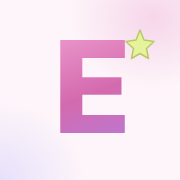
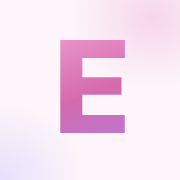
Remove decorative stars and wavy lines; unify fonts
Claude-Session: https://claude.ai/code/session_01LgjJBb7BJznBuJqFrQWUaM

Changed region(s): [[0.6944, 0.1667, 0.8611, 0.3333]]

diff --git a/english/app.js b/english/app.js
@@ -113,10 +113,8 @@
 
   /* ═════════════ quiz UI ═════════════ */
   const DOODLES = [
-    '<svg class="doodle" viewBox="0 0 60 60"><path d="M30 8 L35 24 L52 24 L38 34 L43 51 L30 41 L17 51 L22 34 L8 24 L25 24 Z"/></svg>',
     '<svg class="doodle" viewBox="0 0 60 60"><path d="M30 50 C 10 38, 6 22, 18 14 C 25 10, 30 16, 30 20 C 30 16, 35 10, 42 14 C 54 22, 50 38, 30 50 Z"/></svg>',
     '<svg class="doodle" viewBox="0 0 60 60"><circle cx="30" cy="30" r="10"/><path d="M30 6v8M30 46v8M6 30h8M46 30h8M13 13l6 6M41 41l6 6M47 13l-6 6M19 41l-6 6"/></svg>',
-    '<svg class="doodle" viewBox="0 0 60 60"><path d="M10 44 C 14 30, 22 20, 30 30 S 44 36, 50 16"/><path d="M44 14 L50 16 L50 23"/></svg>',
     '<svg class="doodle" viewBox="0 0 60 60"><path d="M12 36 C 12 26, 22 22, 28 26 C 30 16, 46 16, 46 28 C 54 28, 54 40, 46 40 L16 40 C 12 40, 10 38, 12 36 Z"/></svg>',
   ];
 
@@ -238,7 +236,7 @@
     $("#quiz").innerHTML = `
       <div class="summary">
         <div class="stamp">${r0 ? "BONUS" : "DONE"}<small>${okN} / ${round.length}</small></div>
-        ${extra > 0 ? `<p class="hand-note" style="margin:-4px 0 10px">今天已经多学了 ${extra} 个词，厉害！✎</p>` : ""}
+        ${extra > 0 ? `<p class="hand-note" style="margin:-4px 0 10px">今天已经多学了 ${extra} 个词，厉害！</p>` : ""}
         <ul class="sum-list">
           ${round.map((it, k) => {
             const i = r0 + k;
@@ -286,7 +284,7 @@
       $("#quiz").innerHTML = `
         <div class="flip" id="flip"><div class="flip-inner">
           <div class="face front"><span class="counter">${i + 1} / ${cards.length}</span><div class="word-big">${esc(it.w)}</div>
-            <div class="word-meta"><span>${esc(it.ph)}</span><button class="speak" data-say="${esc(it.w)}">🔊</button></div>${DOODLES[i % 5]}</div>
+            <div class="word-meta"><span>${esc(it.ph)}</span><button class="speak" data-say="${esc(it.w)}">🔊</button></div>${DOODLES[i % DOODLES.length]}</div>
           <div class="face back"><div class="ans">${esc(it.zh)}</div>${it.ex ? `<p class="ex">${highlight(it.ex, it.w)}</p>` : ""}${it.tip ? `<p class="tipline">${esc(it.tip)}</p>` : ""}</div>
         </div></div>
         <div class="quiz-foot"><span class="hand-note">点卡片翻面</span>
@@ -589,9 +587,6 @@
       <svg viewBox="0 0 300 200" preserveAspectRatio="xMidYMid slice" style="filter:url(#wobble)">
         <circle cx="${60 + i * 70}" cy="50" r="38" fill="rgba(255,255,255,.35)"/>
         <circle cx="250" cy="${150 - i * 20}" r="60" fill="rgba(255,255,255,.25)"/>
-        <path d="M0 160 C 60 130, 110 185, 170 155 S 260 130, 300 150 L300 200 L0 200 Z" fill="rgba(255,255,255,.35)"/>
-        <path d="M20 40 q 10 -10 20 0 t 20 0" fill="none" stroke="rgba(15,74,89,.35)" stroke-width="2.4" stroke-linecap="round"/>
-        <path d="M230 40 l 6 14 l 14 2 l -10 10 l 3 14 l -13 -7 l -13 7 l 3 -14 l -10 -10 l 14 -2 z" fill="none" stroke="rgba(15,74,89,.3)" stroke-width="2"/>
       </svg>
       <span class="emo">${c.emo}</span></div>`;
   }
@@ -627,7 +622,7 @@
     $("#newsDate").textContent = newsData.date.slice(5).replace("-", "/") + (newsData.date === TODAY ? " · 今天" : "");
     const d = day();
     const late = newsDate === TODAY && newsData.date !== TODAY;
-    list.innerHTML = (late ? `<p class="hand-note" style="margin:0">今天的热点 9:00 前更新，先看看 ${newsData.date.slice(5).replace("-", "/")} 的 ✎</p>` : "") +
+    list.innerHTML = (late ? `<p class="hand-note" style="margin:0">今天的热点 9:00 前更新，先看看 ${newsData.date.slice(5).replace("-", "/")} 的</p>` : "") +
       newsData.items.map((it, i) => {
         const c = CAT[it.category] || CAT.world;
         const read = d.newsRead.includes(readKey(i));

diff --git a/english/style.css b/english/style.css
@@ -57,7 +57,7 @@ button { font: inherit; color: inherit; cursor: pointer; }
 .chip-lime { background: var(--lime); color: #4f5a12; }
 .chip-teal { background: var(--teal); color: #e0f1f4; }
 .chip-mint { background: var(--mint); color: #245c4a; }
-.hand-note { font-family: var(--hand); font-size: 19px; color: var(--pink-deep); line-height: 1.1; }
+.hand-note { font-size: 13px; color: var(--ink-2); line-height: 1.4; }
 
 
 .icon-btn {
@@ -113,7 +113,7 @@ button { font: inherit; color: inherit; cursor: pointer; }
 }
 .face.back { background: var(--teal); color: #e7f3f5; transform: rotateY(180deg); justify-content: center; gap: 8px; }
 .face .tag { position: absolute; top: 14px; left: 16px; }
-.face .counter { position: absolute; top: 14px; right: 18px; font-family: var(--hand); font-size: 20px; color: #8a5a7c; }
+.face .counter { position: absolute; top: 16px; right: 18px; font-size: 13px; font-weight: 500; color: #8a5a7c; }
 .doodle { position: absolute; bottom: 10px; right: 14px; width: 54px; opacity: .55; filter: url(#wobble); }
 .doodle path, .doodle circle { fill: none; stroke: #8a5a7c; stroke-width: 2; stroke-linecap: round; }
 .word-big { font-size: clamp(30px, 5vw, 42px); font-weight: 600; letter-spacing: -0.01em; margin: 6px 0 4px; }
@@ -128,7 +128,7 @@ button { font: inherit; color: inherit; cursor: pointer; }
 .back .ex b { color: var(--lime); font-weight: 500; }
 .back .tipline { margin: 0; font-size: 14px; color: #f7d7ec; }
 .back .tipline::before { content: "✎ "; }
-.back .verdict { font-family: var(--hand); font-size: 24px; color: var(--lime); }
+.back .verdict { font-size: 15px; font-weight: 600; color: var(--lime); }
 .back .verdict.no { color: #ffb3c4; }
 
 .options { display: grid; grid-template-columns: 1fr 1fr; gap: 10px; }
@@ -323,7 +323,7 @@ a { color: inherit; text-decoration: none; -webkit-tap-highlight-color: transpar
 .search-bar span { flex: 1; }
 .search-bar i { font-style: normal; font-size: 11px; padding: 4px 10px; border-radius: 99px; background: var(--lav); color: #4a3f99; }
 
-.section-label { font-family: var(--hand); font-size: 22px; color: var(--pink-deep); margin: 22px 4px 10px; }
+.section-label { font-size: 15px; font-weight: 600; color: var(--ink); margin: 22px 4px 10px; }
 
 /* tiles */
 .tiles { display: grid; grid-template-columns: 1fr 1fr; gap: 12px; }
@@ -383,12 +383,12 @@ a { color: inherit; text-decoration: none; -webkit-tap-highlight-color: transpar
 .topbar .steps { gap: 4px; padding: 0; }
 .topbar .steps i { width: 12px; }
 
-.dict-hint { margin: 10px 4px 0; font-size: 17px; }
+.dict-hint { margin: 10px 4px 0; }
 .dict-result { margin: 14px 0 6px; }
 .notebook { margin-top: 18px; }
 
 .news-tools { justify-content: space-between; margin-bottom: 8px; }
-.news-hint { margin: 4px 4px 12px; font-size: 17px; }
+.news-hint { margin: 4px 4px 12px; }
 .news-item { padding: 12px; }
 .ni-body { padding: 0 4px 4px; }
 

diff --git a/english/index.html b/english/index.html
@@ -13,7 +13,7 @@
   <link href="https://fonts.googleapis.com/css2?family=Outfit:wght@300;400;500;600;700&family=Caveat:wght@500;700&family=Noto+Sans+SC:wght@400;500;700&display=swap" rel="stylesheet">
   <link rel="stylesheet" href="style.css">
   <link rel="icon" type="image/png" href="icon-192.png">
-  <link rel="apple-touch-icon" href="apple-touch-icon.png?v=2">
+  <link rel="apple-touch-icon" href="apple-touch-icon.png?v=3">
   <link rel="manifest" href="manifest.webmanifest">
 </head>
 <body>
@@ -39,7 +39,7 @@
         <i>Dictionary</i>
       </a>
 
-      <p class="section-label">今天 10 分钟 ✎</p>
+      <p class="section-label">今天 10 分钟</p>
 
       <div class="tiles">
         <a class="tile tile-words" href="#/words">
@@ -48,7 +48,6 @@
             <svg viewBox="0 0 120 90" aria-hidden="true">
               <rect x="22" y="14" width="62" height="60" rx="10" transform="rotate(-8 53 44)" />
               <rect x="38" y="18" width="62" height="60" rx="10" transform="rotate(6 69 48)" class="fill" />
-              <path d="M58 44 q 6 -8 12 0 t 12 0" />
             </svg>
           </div>
           <h3>背单词</h3>
@@ -103,7 +102,7 @@
         <svg viewBox="0 0 24 24" aria-hidden="true"><circle cx="11" cy="11" r="7"/><path d="M20 20l-3.5-3.5"/></svg>
         <input id="dictInput" type="search" placeholder="输入英文或中文，回车查询" enterkeyhint="search">
       </form>
-      <p class="hand-note dict-hint">查过的词会在 1–3 天内出现在「背单词」里考你 ✎</p>
+      <p class="hand-note dict-hint">查过的词会在 1–3 天内出现在「背单词」里考你</p>
       <div id="dictResult" class="dict-result"></div>
       <div class="notebook">
         <div class="nb-head">
@@ -135,7 +134,7 @@
           <button class="icon-btn" id="newsNext" aria-label="后一天">›</button>
         </div>
       </div>
-      <p class="hand-note news-hint">点任意英文单词看意思，可以记到单词本 ✎</p>
+      <p class="hand-note news-hint">点任意英文单词看意思，可以记到单词本</p>
       <div id="newsList" class="news-list"></div>
     </section>
 
